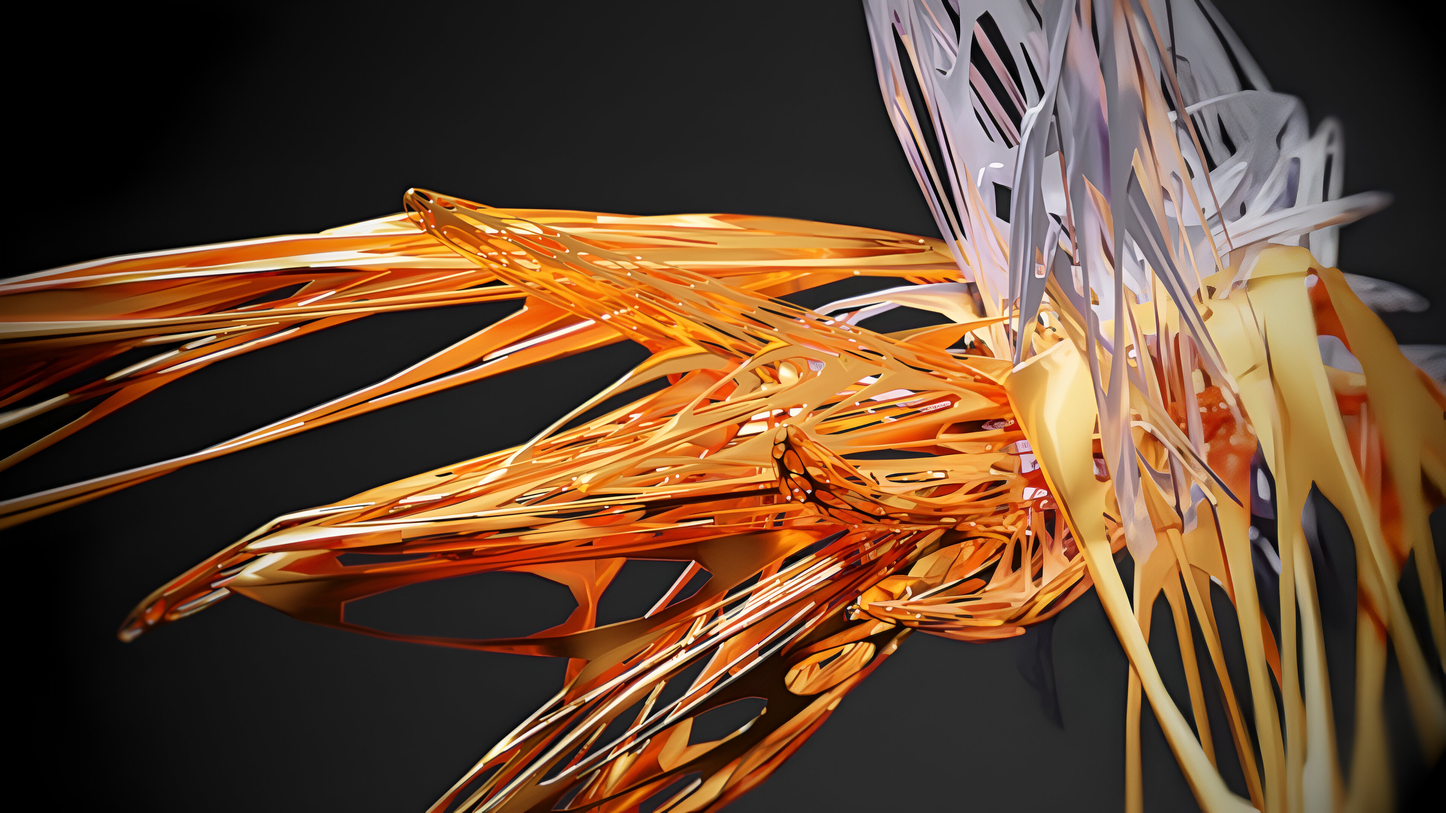
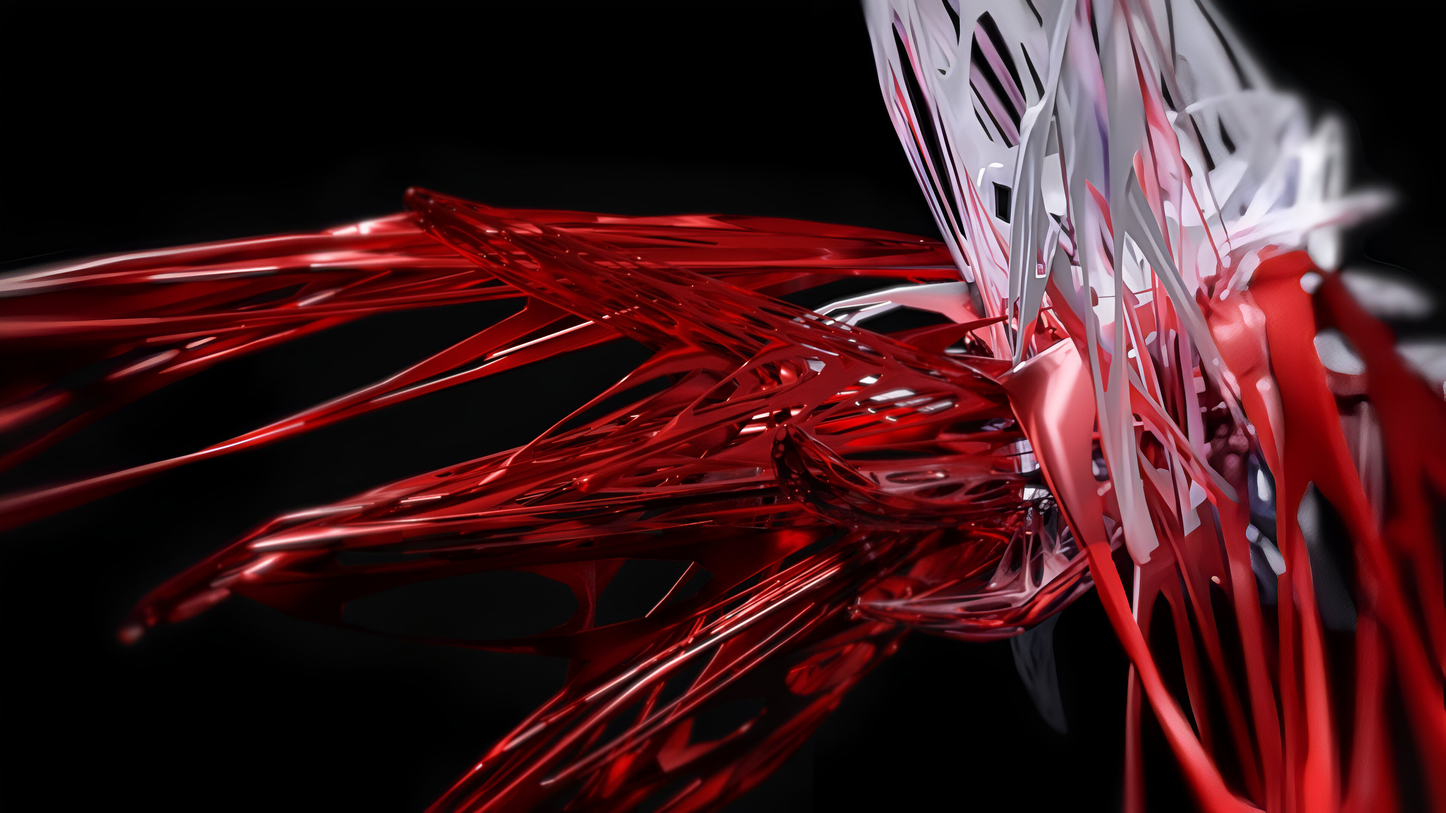
Rebrand

diff --git a/index.html b/index.html
@@ -37,7 +37,7 @@
             display: flex;
             align-items: center;
             background-color: #fff;
-            border-bottom: 2px solid #ff5400;
+            border-bottom: 2px solid #b61a1a;
         }
 
             .navbar ul {
@@ -110,7 +110,7 @@
                 display: inline-block;
                 margin-top: 20px;
                 padding: 10px 20px;
-                background-color: #ff5400;
+                background-color: #b61a1a;
                 color: #fff;
                 text-decoration: none;
                 border-radius: 30px;
@@ -118,7 +118,7 @@
             }
 
                 .content a:hover {
-                    background-color: #e65100;
+                    background-color: #7c1a1a;
                     transform: scale(1.05);
                 }
 
@@ -142,7 +142,7 @@
                 font-size: 24px;
                 margin-bottom: 30px;
                 padding: 10px 20px;
-                background-color: #ff5400;
+                background-color: #b61a1a;
                 color: #fff;
                 border-radius: 4px;
             }
@@ -202,7 +202,7 @@
             top: 10px;
             left: -20px;
             transform: rotate(-45deg);
-            background-color: #ff5400;
+            background-color: #b61a1a;
             color: #fff;
             padding: 5px 15px;
             font-size: 14px;
@@ -300,6 +300,8 @@
             <h1>Welcome to Rational Studios</h1>
             <p>We are an online software development group that aims to create software such as games as well as other tools. Many Studios aren't very rational, but we're different.</p>
             <a href="#projects">Learn More</a>
+            <p></p>
+            <img src="rationallogo.jpg" alt="Image of the Rational Studios logo." style="border-radius: 10px; object-fit: contain; width: 60%;">
         </div>
     </div>
 

diff --git a/Contact.html b/Contact.html
@@ -37,7 +37,7 @@
             display: flex;
             align-items: center;
             background-color: #fff;
-            border-bottom: 2px solid #ff5400;
+            border-bottom: 2px solid #b61a1a;
         }
 
             .navbar ul {
@@ -127,7 +127,7 @@
                 border: none;
                 box-sizing: border-box;
                 box-shadow: 0 2px 5px rgba(0, 0, 0, 0.1);
-                border: 2px solid #ff5400; /* Added border style */
+                border: 2px solid #b61a1a; /* Added border style */
             }
 
             .contact-form textarea {
@@ -136,7 +136,7 @@
             }
 
             .contact-form .submit-button {
-                background-color: #ff5400;
+                background-color: #b61a1a;
                 color: #fff;
                 border: none;
                 padding: 10px 20px;
@@ -146,7 +146,7 @@
             }
 
                 .contact-form .submit-button:hover {
-                    background-color: #e65100;
+                    background-color: #7c1a1a;
                     transform: scale(1.05);
                 }
 
